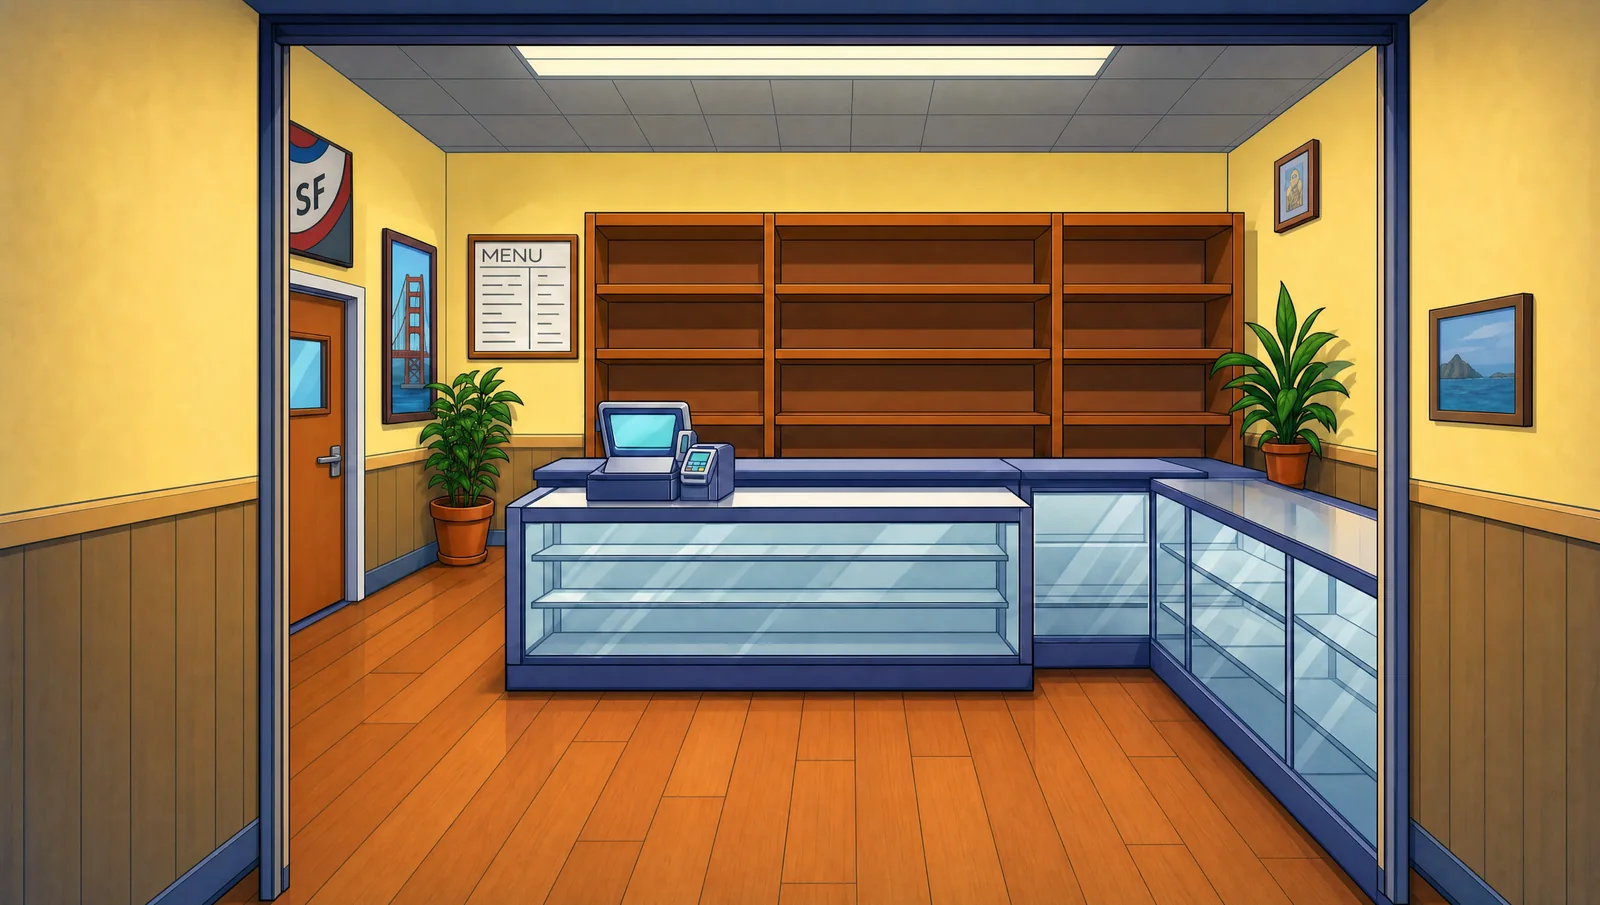
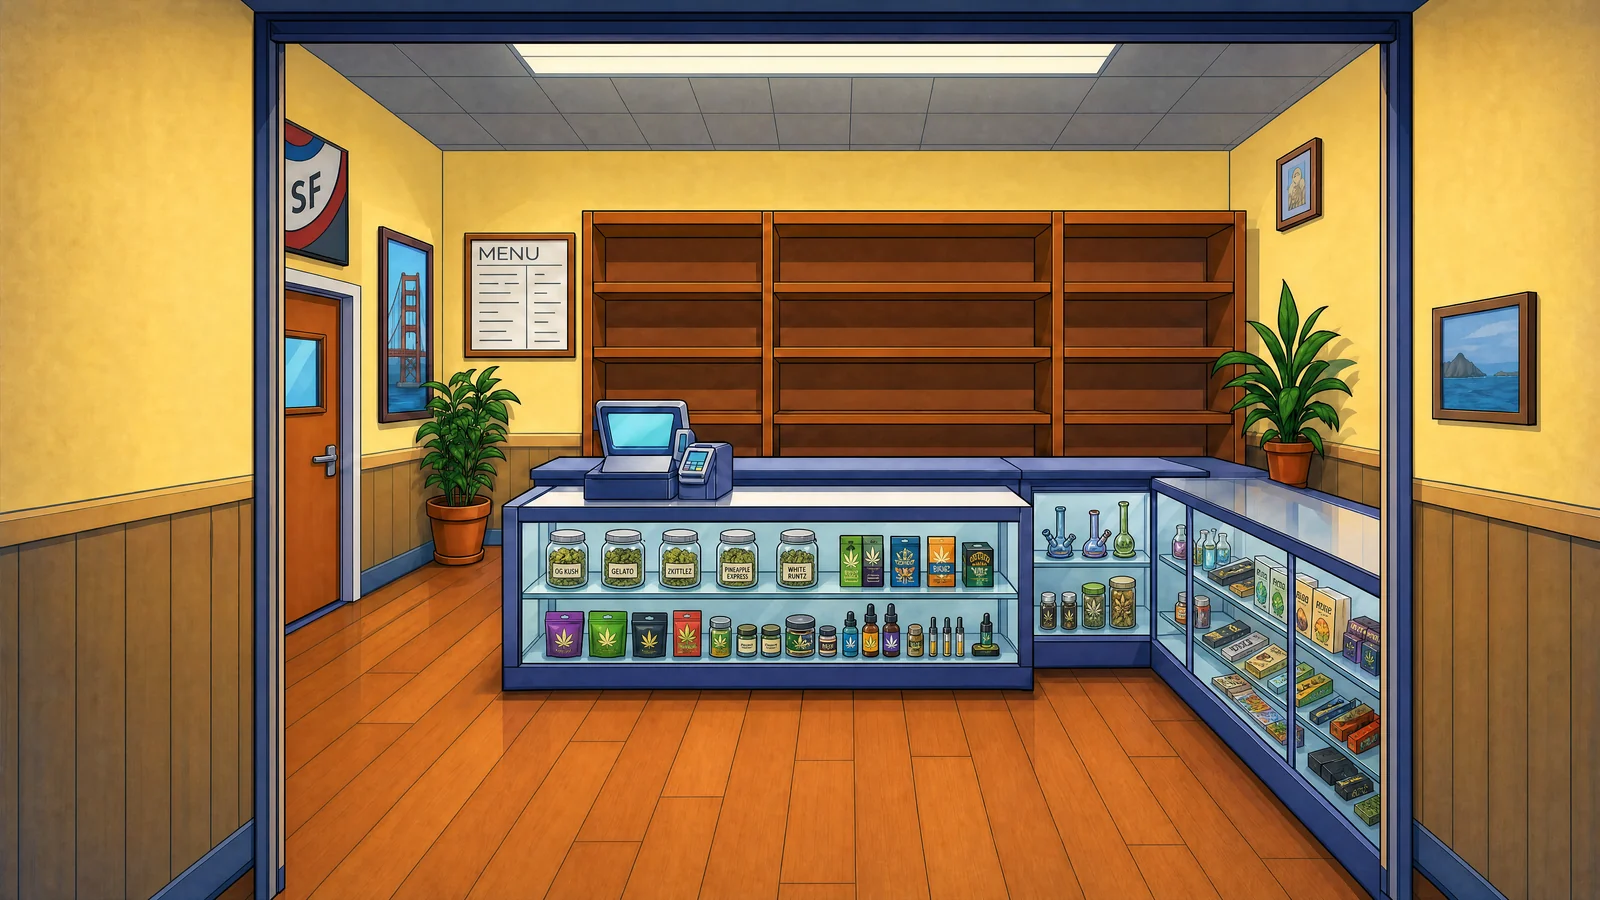
Shop front: replace background art (FRONT SHOP 2) + re-tune jar shelves
- Swap shop-front.webp for the new storefront art (1600x900); update the room
  aspect ratio to match.
- Re-tune the jar shelf slots to the new (higher) wooden shelves and restore the
  full 27 slots — the new register no longer occludes the bottom-left, so the
  earlier skip-filter is dropped.

diff --git a/src/screens/TrapHouse.jsx b/src/screens/TrapHouse.jsx
@@ -396,15 +396,12 @@ function RoomArrow({ side, label, onClick }) {
 // back shelves here, each tinted to its strain's jarColor (Purple Haze = purple).
 // Slots are read off shop-front.webp — three shelf rows × three bays × three jars
 // — and fill front-to-back (top row, left→right) as production banks jars.
-const SHELF_ROWS = [31.6, 39.8, 48.0]                      // jar-bottom baseline, % of room box
-const SHELF_BAYS = [[38.2, 48.0], [49.9, 59.9], [62.4, 72.3]]
+const SHELF_ROWS = [31.4, 38.6, 45.6]                      // jar-bottom baseline, % of room box
+const SHELF_BAYS = [[38.0, 47.5], [50.8, 60.3], [63.6, 73.6]]
 const SHELF_FRAC = [0.18, 0.5, 0.82]                       // jar centers within a bay
-const SHELF_JAR_W = 2.9                                    // jar width, % of room box
+const SHELF_JAR_W = 2.8                                    // jar width, % of room box
 const SHELF_SLOTS = SHELF_ROWS.flatMap(y =>               // all slot centers, in stock order
   SHELF_BAYS.flatMap(([b0, b1]) => SHELF_FRAC.map(f => ({ x: b0 + (b1 - b0) * f, y }))))
-  // The bottom-row left-bay pair sits behind the cash register — drop them so jars
-  // flow past into the next visible spots instead of vanishing behind the counter.
-  .filter(s => !(s.y === SHELF_ROWS[2] && s.x < 45))
 
 function ShopFront({ art, jarCounts = {}, tableCards = {} }) {
   // One tinted jar per banked unit, in the order strains were planted, capped at
@@ -420,7 +417,7 @@ function ShopFront({ art, jarCounts = {}, tableCards = {} }) {
   return (
     <div style={{ position: 'absolute', inset: 0, display: 'flex', alignItems: 'center', justifyContent: 'center' }}>
       {/* Aspect-locked room box so the clerk lines up with the counter at any size. */}
-      <div style={{ position: 'relative', aspectRatio: '1600 / 905', maxWidth: '100%', maxHeight: '100%' }}>
+      <div style={{ position: 'relative', aspectRatio: '1600 / 900', maxWidth: '100%', maxHeight: '100%' }}>
         <img src={art} alt="Shop Front" style={{ display: 'block', width: '100%', height: '100%' }} />
         {/* Finished jars stocked on the back shelves (grow → pack → shelf). */}
         {stock.map((color, i) => (